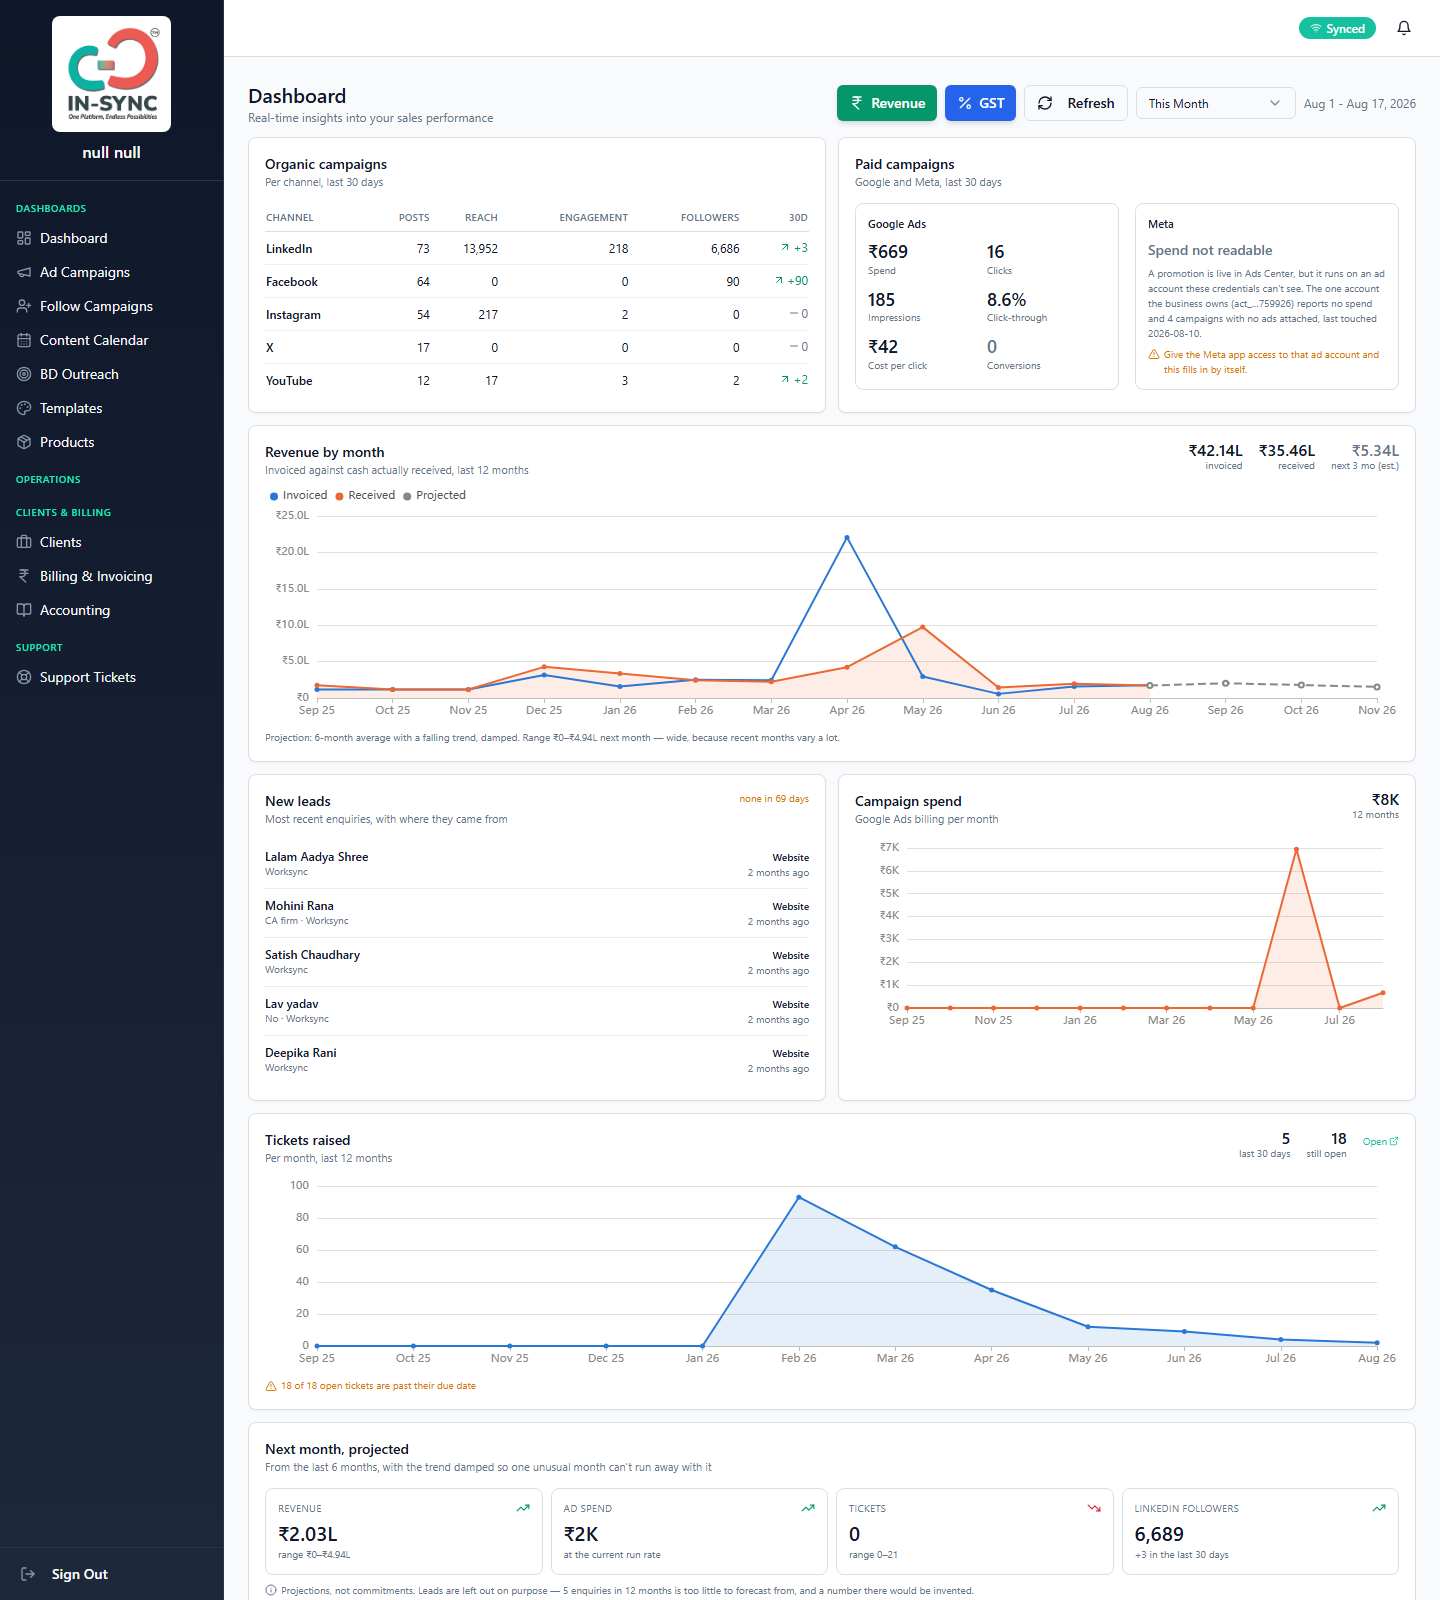
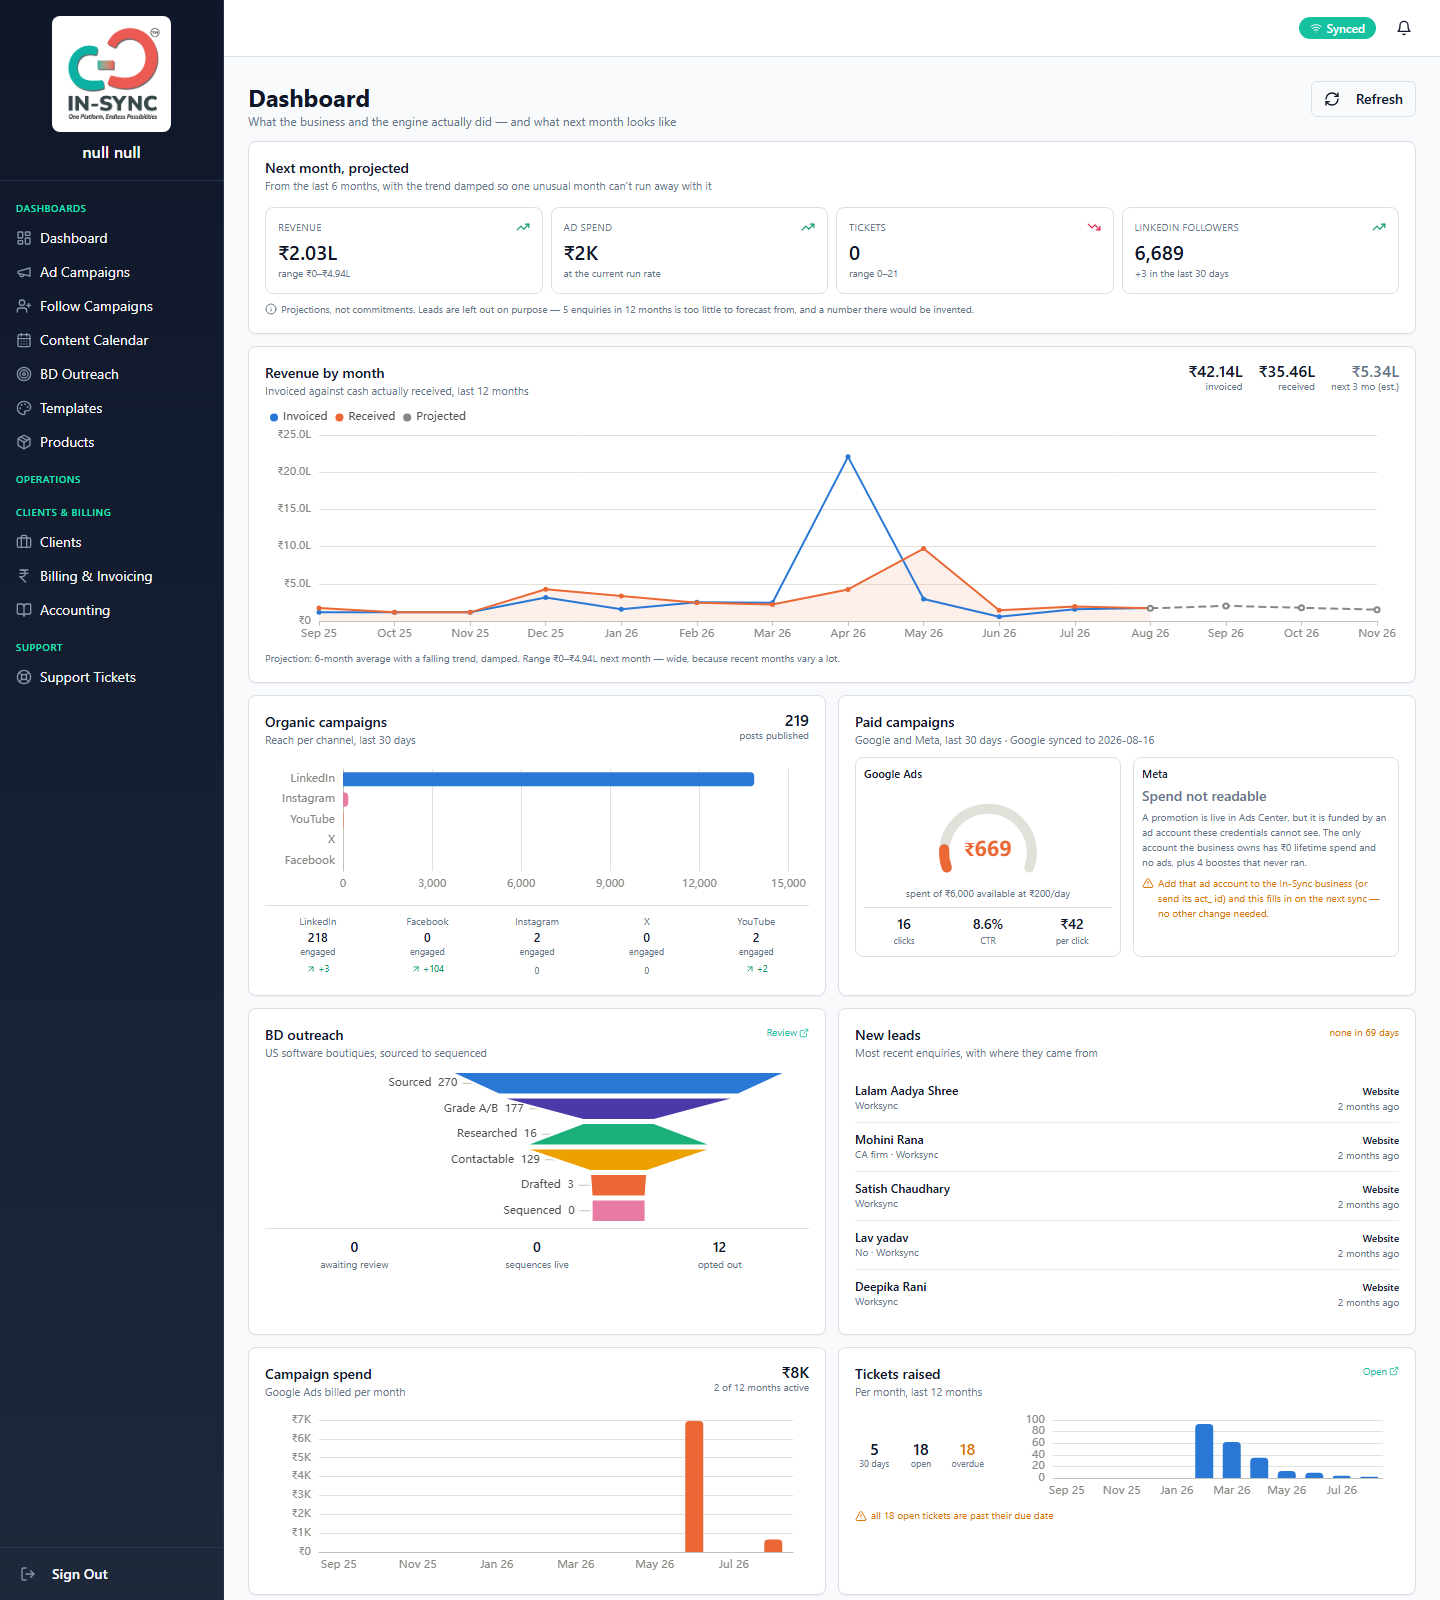
fix(dashboard): funnel stage order, and stop projecting zero (#54)
Two things the rendered page exposed.

The BD funnel narrowed and then widened again. My stage order assumed research
comes before contact-finding, so each stage would be a subset of the one above
— but Apollo contact-finding and website research are independent steps, and
contacts are far ahead right now (129 firms vs 16). Stages are now ordered by
how far the work has actually got, which is also strictly decreasing.

The ticket projection read "0 next month" against 5 raised in the last 30 days.
Two causes, both fixed:
  - the current month was being fitted while only part-way through, so every
    trend looked like a collapse. Forecasts now fit completed periods only
    (completedPeriods).
  - a steeply falling series extrapolated straight through zero and clamped
    there. Excluding the partial month was not enough — 62/35/12/9/4 still
    projected zero. Projections are now floored at the quietest month in the
    window, which is the honest lower bound for "if the decline continues".

13 forecast tests, up from 9. The floor and the flat-series behaviour are both
asserted, so a future change cannot quietly reintroduce either fault.

diff --git a/src/components/Dashboard/PredictionsPanel.tsx b/src/components/Dashboard/PredictionsPanel.tsx
@@ -3,7 +3,7 @@ import { Card } from "@/components/ui/card";
 import { Skeleton } from "@/components/ui/skeleton";
 import { TrendingUp, TrendingDown, Minus, Info } from "lucide-react";
 import type { DashboardOverview } from "@/hooks/useDashboardOverview";
-import { forecast } from "@/utils/forecast";
+import { forecast, completedPeriods } from "@/utils/forecast";
 import { formatCompactINR } from "@/utils/currency";
 
 /**
@@ -63,24 +63,27 @@ export const PredictionsPanel = memo(function PredictionsPanel({ data, isLoading
   const spend = months.map((m) => m.google_spend);
   const ticketSeries = (data.tickets?.monthly || []).map((m) => m.raised);
 
-  const revenueF = forecast(received, 1);
-  const spendF = forecast(spend, 1);
-  const ticketF = forecast(ticketSeries, 1);
+  // Fit completed months only — the current month is part-way through, and
+  // including it makes every trend look like a collapse.
+  const revenueF = forecast(completedPeriods(received), 1);
+  const spendF = forecast(completedPeriods(spend), 1);
+  const ticketF = forecast(completedPeriods(ticketSeries), 1);
 
   // Followers project from the last 30 days' movement, not a fitted series —
   // there is only one snapshot cadence and a month of it.
   const linkedin = (data.organic || []).find((c) => c.channel === "linkedin");
 
-  const lastReceived = received[received.length - 1] ?? 0;
-  const lastSpend = spend[spend.length - 1] ?? 0;
-  const lastTickets = ticketSeries[ticketSeries.length - 1] ?? 0;
+  const lastComplete = <T,>(a: T[]) => a[a.length - 2] ?? a[a.length - 1];
+  const lastReceived = lastComplete(received) ?? 0;
+  const lastSpend = lastComplete(spend) ?? 0;
+  const lastTickets = lastComplete(ticketSeries) ?? 0;
 
   return (
     <Card className="p-4">
       <div className="mb-3">
         <h3 className="text-sm font-semibold">Next month, projected</h3>
         <p className="text-[11px] text-muted-foreground">
-          From the last 6 months, with the trend damped so one unusual month can't run away with it
+          From the last 6 completed months, with the trend damped so one unusual month can't run away with it
         </p>
       </div>
 

diff --git a/src/utils/forecast.ts b/src/utils/forecast.ts
@@ -64,6 +64,7 @@ export function forecast(
   const damping = opts.damping ?? 0.5;
 
   const mean = recent.reduce((a, b) => a + b, 0) / recent.length;
+  const recentMin = Math.max(0, Math.min(...recent));
   const { slope, intercept } = fit(recent);
   const lastFitted = intercept + slope * (recent.length - 1);
 
@@ -82,7 +83,12 @@ export function forecast(
     // came out lower than the most recent month. Anchoring on the fitted
     // level and advancing by a damped slope keeps direction honest while
     // still refusing to extrapolate at full tilt.
-    const value = Math.max(0, lastFitted + slope * damping * step);
+    // Floored at the quietest month in the window, not at zero. A steeply
+    // falling series extrapolates straight through zero and clamps there, which
+    // read as "0 tickets next month" off the back of 62→35→12→9→4 — a number
+    // that is not going to happen. The quietest recent month is the honest
+    // lower bound for "if the decline continues".
+    const value = Math.max(recentMin, lastFitted + slope * damping * step);
     // The band widens with distance: one SD at the first step, growing by
     // sqrt(step) after that.
     const spread = sd * Math.sqrt(step);
@@ -105,4 +111,14 @@ export function forecast(
 export function forecastNext(history: number[], opts?: { damping?: number; window?: number }): number | null {
   const f = forecast(history, 1, opts);
   return f ? f.points[0] : null;
+}
+
+/**
+ * The current month is only part-way through, so its total is always low and
+ * fitting it drags every trend downward — it made the ticket projection read
+ * "0 next month" on the 17th, off the back of a 17-day month. Use this to fit
+ * completed periods only.
+ */
+export function completedPeriods(history: number[]): number[] {
+  return history.length > 1 ? history.slice(0, -1) : history;
 }

diff --git a/src/components/Dashboard/BDOutreachPanel.tsx b/src/components/Dashboard/BDOutreachPanel.tsx
@@ -8,10 +8,15 @@ import { funnelChart, SLOT } from "@/components/Dashboard/chartStyle";
 import type { DashboardOverview } from "@/hooks/useDashboardOverview";
 
 /**
- * BD outreach — a funnel, because that is literally what it is: firms sourced,
- * graded, researched, given a contact, drafted, then put into a live sequence.
- * Each stage is a strict subset of the one above it, so the narrowing is the
- * information.
+ * BD outreach — a funnel: firms sourced, graded, given a contact, researched,
+ * drafted, then put into a sequence.
+ *
+ * Order matters and my first attempt got it wrong. Contact-finding (Apollo) and
+ * research are independent steps, and contacts are ahead of research right now
+ * (129 vs 16), so listing "Researched" above "Contactable" drew a funnel that
+ * narrowed and then widened again — a shape that implies a subset relationship
+ * the data does not have. Stages are ordered by how far the work has actually
+ * got, which is also strictly decreasing.
  */
 export const BDOutreachPanel = memo(function BDOutreachPanel({
   data, isLoading,
@@ -19,8 +24,8 @@ export const BDOutreachPanel = memo(function BDOutreachPanel({
   const option = useMemo(() => funnelChart([
     { name: "Sourced", value: data?.sourced ?? 0, color: SLOT.blue },
     { name: "Grade A/B", value: (data?.graded_a ?? 0) + (data?.graded_b ?? 0), color: SLOT.violet },
-    { name: "Researched", value: data?.researched ?? 0, color: SLOT.aqua },
     { name: "Contactable", value: data?.contactable ?? 0, color: SLOT.yellow },
+    { name: "Researched", value: data?.researched ?? 0, color: SLOT.aqua },
     { name: "Drafted", value: data?.drafted ?? 0, color: SLOT.orange },
     { name: "Sequenced", value: (data?.sequences_live ?? 0) + (data?.sequences_stopped ?? 0), color: SLOT.magenta },
   ]), [data]);

diff --git a/src/utils/forecast.test.ts b/src/utils/forecast.test.ts
@@ -1,5 +1,5 @@
 import { describe, it, expect } from "vitest";
-import { forecast, forecastNext } from "./forecast";
+import { forecast, forecastNext, completedPeriods } from "./forecast";
 
 describe("forecast", () => {
   it("refuses to guess from too little history", () => {
@@ -56,5 +56,31 @@ describe("forecast", () => {
   it("forecastNext returns the first projected point", () => {
     const hist = [10, 20, 30, 40, 50, 60];
     expect(forecastNext(hist)).toBe(forecast(hist, 1)!.points[0]);
+  });
+});
+
+describe("completedPeriods", () => {
+  it("drops the current, part-finished period", () => {
+    expect(completedPeriods([10, 20, 30, 5])).toEqual([10, 20, 30]);
+  });
+
+  it("leaves a single observation alone rather than emptying it", () => {
+    expect(completedPeriods([7])).toEqual([7]);
+    expect(completedPeriods([])).toEqual([]);
+  });
+
+  it("does not project zero off the back of a steep decline", () => {
+    // Real shape: tickets fell 62→35→12→9→4, then 2 seventeen days into August.
+    // Linear decay would run through zero and clamp there; the floor is the
+    // quietest month actually observed.
+    const withPartial = [62, 35, 12, 9, 4, 2];
+    const fitted = forecast(completedPeriods(withPartial), 1)!;
+    expect(fitted.points[0]).toBeGreaterThanOrEqual(4);
+    expect(forecast(withPartial, 1)!.points[0]).toBeGreaterThanOrEqual(2);
+  });
+
+  it("still holds a flat series at its level", () => {
+    const f = forecast([100, 100, 100, 100, 100, 100], 2)!;
+    expect(f.points.every((p) => Math.abs(p - 100) < 1)).toBe(true);
   });
 });

diff --git a/src/components/Dashboard/MoneyByMonthChart.tsx b/src/components/Dashboard/MoneyByMonthChart.tsx
@@ -3,7 +3,7 @@ import { Card } from "@/components/ui/card";
 import { Skeleton } from "@/components/ui/skeleton";
 import { EChart } from "@/components/Marketing/EChart";
 import { lineChart, axisRupee, SLOT, INK } from "@/components/Dashboard/chartStyle";
-import { forecast } from "@/utils/forecast";
+import { forecast, completedPeriods } from "@/utils/forecast";
 import type { RevenueMonth } from "@/hooks/useDashboardOverview";
 import { formatCompactINR, formatCurrency } from "@/utils/currency";
 
@@ -37,7 +37,9 @@ export const MoneyByMonthChart = memo(function MoneyByMonthChart({
   const { option, projection } = useMemo(() => {
     const rows = data || [];
     const received = rows.map((d) => Math.round(d.received));
-    const f = forecast(received, 3);
+    // Completed months only: the current month is partial and would bias the
+    // trend down every time the dashboard is opened early in a month.
+    const f = forecast(completedPeriods(received), 3);
 
     const futureLabels = f ? nextMonthLabels(rows[rows.length - 1]?.month, 3) : [];
     const categories = [...rows.map((d) => d.month), ...futureLabels];
